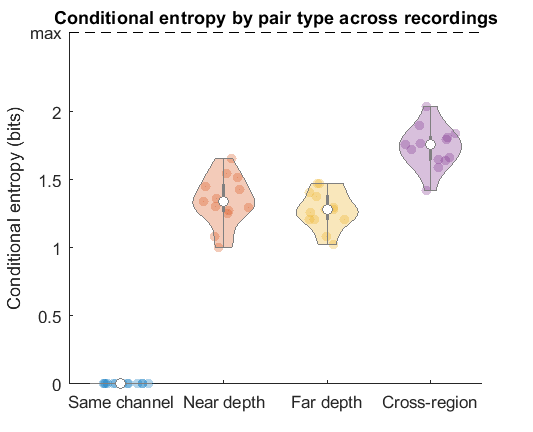
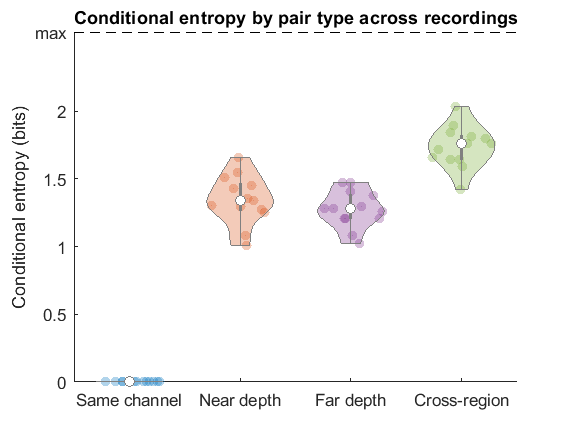
Change colors for violin plot

diff --git a/final_analysis.m b/final_analysis.m
@@ -75,7 +75,8 @@ viol = violinplot(cent_by_type);
 xticklabels(types);
 ylabel('Conditional entropy (bits)');
 
-colors = lines(4);
+colors = lines(5);
+colors(3,:) = []; % skip 3rd since its yellow blends w/ parula colormap
 for kT = 1:4
     viol(kT).ViolinColor = colors(kT, :);
 end
